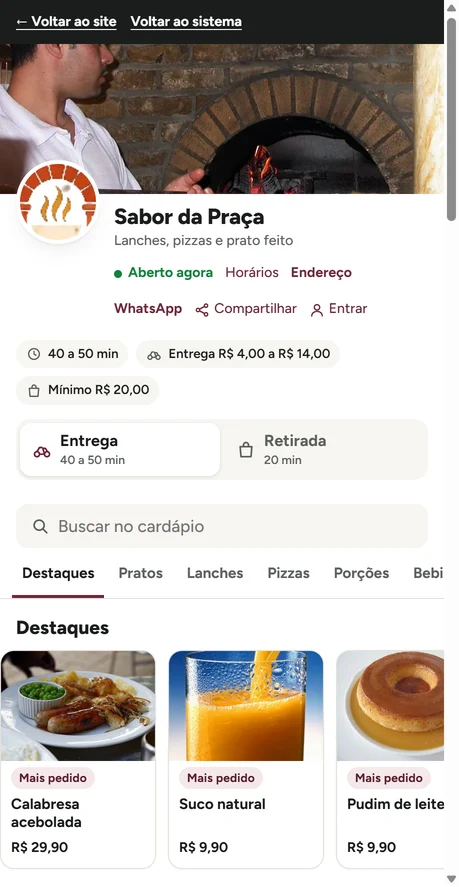
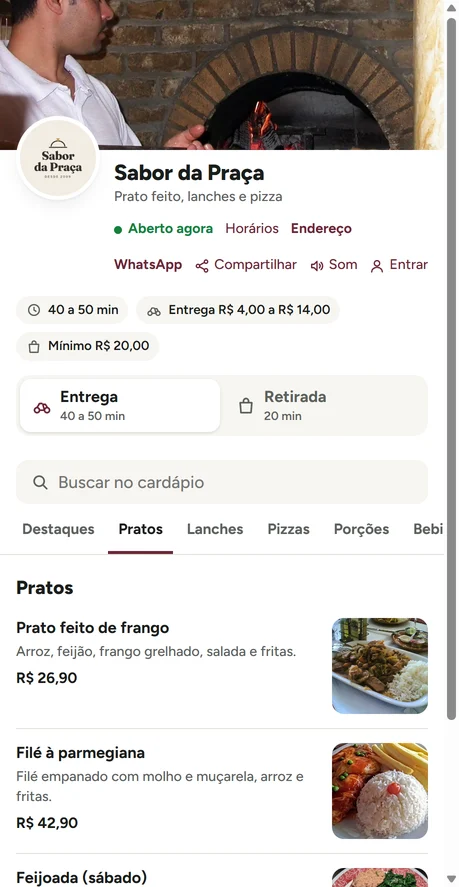
Popina: exemplos de cardápio diferentes

diff --git a/popina.html b/popina.html
@@ -91,7 +91,7 @@
     <div class="np-video np-mockup"><a href="demos/sistemas/popina/app.html"><picture><source type="image/webp" srcset="img/sistemas/popina-mockup-900.webp?v=6 900w, img/sistemas/popina-mockup.webp?v=6 1600w" sizes="(max-width: 860px) 94vw, 52vw"><img src="img/sistemas/popina-mockup.webp?v=6" width="1600" height="826" fetchpriority="high" decoding="async" alt="Popina na demonstração: a tela da cozinha no computador e a lista do garçom no celular, com dados de exemplo"></picture></a></div>
   </section>
   <section class="sv wrap" id="video" aria-labelledby="sv-t"><h2 class="sec-title" id="sv-t">Veja o Popina em 30 segundos</h2><p class="sv-intro">Telas reais da demonstração, com cada toque: a mesa aberta, o pedido lançado, a cozinha, a conta fechada com Pix e 10% e o recibo.</p><figure class="sv-fig"><div class="sv-quadro" style="--sv-bg:#2a120a" data-deitado="video/sistemas/popina-motion.mp4?v=1" data-empe="video/sistemas/popina-motion-vertical.mp4?v=1" data-capa-deitado="video/sistemas/popina-motion.webp?v=1" data-capa-empe="video/sistemas/popina-motion-vertical.webp?v=1"><video muted loop playsinline preload="none" width="1920" height="1080" aria-label="Vídeo sem som com as telas do Popina: a mesa aberta, o pedido lançado, a cozinha, a conta fechada com Pix e 10% e o recibo"></video><button type="button" class="sv-pausa" aria-pressed="false" hidden>Pausar</button></div><figcaption>Vídeo sem som, com dados de exemplo da demonstração.</figcaption></figure></section>
-  <section class="np-dores wrap"><h2 class="sec-title">O que ele resolve</h2><div class="np-tres"><div><span class="np-num">01</span><p>Pedido anotado errado ou que nunca chegou na cozinha</p></div><div><span class="np-num">02</span><p>Mesa esperando a conta e cliente chamando sem ninguém ver</p></div><div><span class="np-num">03</span><p>Fim do dia sem saber quanto entrou no Pix, no dinheiro e no cartão</p></div></div></section><section class="pp-sec wrap pm-marca" id="sua-marca"><h2 class="sec-title">Simples de usar, com a cara do seu restaurante</h2><p class="pp-intro">Um visual só, pensado para quem não tem intimidade com tecnologia: letras grandes, botões grandes e poucas abas. Você põe o seu logo e escolhe uma cor; o resto já vem pronto.</p><div class="pm-tres"><figure><img src="img/sistemas/popina-marca-1.webp?v=3" alt="Cardápio online de exemplo da lanchonete Sabor da Praça, na cor terracota" width="459" height="887" loading="lazy" decoding="async"><figcaption><b>Sabor da Praça</b><span>Terracota</span></figcaption></figure><figure><img src="img/sistemas/popina-marca-2.webp?v=3" alt="Cardápio online de exemplo da Pizzaria Bella Massa, em verde" width="459" height="887" loading="lazy" decoding="async"><figcaption><b>Pizzaria Bella Massa</b><span>Verde</span></figcaption></figure><figure><img src="img/sistemas/popina-marca-3.webp?v=3" alt="Cardápio online de exemplo da lanchonete Lanches do Tio Zé, em azul" width="459" height="887" loading="lazy" decoding="async"><figcaption><b>Lanches do Tio Zé</b><span>Azul</span></figcaption></figure></div><ul class="pm-lista"><li><b>O seu logo e uma cor</b><span>Você põe pelo celular ou pelo computador e o cardápio muda na hora. Se a cor ficar clara demais, o Popina escurece um pouco para dar leitura.</span></li><li><b>Legível no sol</b><span>Letras grandes, contraste alto e botões do tamanho do dedo, no celular do garçom e no computador do caixa.</span></li><li><b>Cinco abas e pronto</b><span>Salão, Pedidos, Cozinha, Caixa e Gestão. Cada pessoa só vê o que o cargo dela precisa.</span></li></ul><p class="pm-nota">Restaurantes de exemplo, com nomes criados para esta demonstração.</p></section><section class="pp-sec wrap" id="demonstracao"><h2 class="sec-title">Veja funcionando em 30 segundos</h2><p class="pp-intro">A demonstração abre sem cadastro, com a lanchonete Sabor da Praça de exemplo: mesas abertas, pedidos na cozinha, balcão e delivery. Os dados ficam só no seu navegador.</p><div class="pp-demo"><div><a class="pp-demo-foto" href="demos/sistemas/popina/app.html#salao"><img src="img/sistemas/popina.webp?v=6" width="1200" height="750" loading="lazy" decoding="async" alt="Tela do salão do Popina: a lista do que fazer agora (levar a conta, pedido pelo QR, prato pronto, mesa chamando) e o mapa das mesas, com dados de exemplo"></a></div><div class="pp-fluxo"><p class="pp-fluxo-t">Do garçom para a cozinha, em dois aparelhos</p><ol class="pp-testar"><li><b>Toque na mesa 4, que está livre.</b><small>Escolha quantas pessoas e toque em Abrir e lançar.</small></li><li><b>Toque no + dos pratos e em Mandar para a cozinha.</b><small>Um X-Burger com bacon e sem cebola, uma pizza meio a meio: as escolhas aparecem antes de pôr na comanda.</small></li><li><b>Abra a aba Cozinha.</b><small>O pedido chega com o tempo correndo. Toque em Começar e em Pronto: o garçom vê “Pronto: Mesa 4” no Salão. Dá para imprimir o pedido na térmica de 80 mm.</small></li></ol></div></div><div class="pp-demo-baixo"><figure class="pp-resultado"><div class="pp-res-foto"><img src="img/resultados/popina.webp?v=6" width="780" height="1320" loading="lazy" decoding="async" alt="Print da demonstração do Popina: a tela da cozinha com o pedido da mesa 4 e a observação em destaque"></div><figcaption><span class="pp-res-rot">Resultado</span><b class="pp-res-t">O pedido na tela da cozinha</b><span class="pp-res-d">Print da demonstração: o pedido chega na tela da cozinha com a observação em vermelho e o tempo em destaque, verde até 10 minutos, amarelo até 20 e vermelho depois.</span><span class="pp-res-planilha"><b>Cozinha e bar:</b> a mesma tela filtra só a cozinha ou só o bar, e cada pedido tem o botão de imprimir.</span></figcaption></figure><div class="pp-demo-acoes"><div class="pp-bts"><a class="btn btn-primary" href="demos/sistemas/popina/app.html#salao">Abrir nessa tela</a></div><p class="pp-selo pp-selo-demo"><svg class="pp-selo-ico" aria-hidden="true"><use href="img/seguranca/diretrizes.svg?v=1#d-navegador"/></svg><span><b>Demonstração</b> · dados de exemplo, salvos só no seu navegador</span></p><h3 class="pp-mais-t">Depois, teste também</h3><ul class="pp-mais"><li><span class="pp-mais-txt"><b>Cardápio do cliente pelo QR:</b> peça como se estivesse na mesa 4, chame o garçom e peça a conta. O pedido também pode ir para o WhatsApp do restaurante.</span><a class="btn btn-outline btn-s" href="demos/sistemas/popina/cardapio.html?mesa=4" aria-label="Abrir na demonstração: cardápio do cliente">Abrir</a></li><li><span class="pp-mais-txt"><b>Fechar a conta:</b> 10%, desconto, dividir por pessoa, Pix com QR e dinheiro com troco.</span><a class="btn btn-outline btn-s" href="demos/sistemas/popina/app.html#caixa" aria-label="Abrir na demonstração: caixa">Abrir</a></li><li><span class="pp-mais-txt"><b>Fechamento do dia:</b> o resumo por forma de pagamento, pronto para mandar no WhatsApp do dono.</span><a class="btn btn-outline btn-s" href="demos/sistemas/popina/app.html#fechamento" aria-label="Abrir na demonstração: fechamento do dia">Abrir</a></li></ul></div></div></section>
+  <section class="np-dores wrap"><h2 class="sec-title">O que ele resolve</h2><div class="np-tres"><div><span class="np-num">01</span><p>Pedido anotado errado ou que nunca chegou na cozinha</p></div><div><span class="np-num">02</span><p>Mesa esperando a conta e cliente chamando sem ninguém ver</p></div><div><span class="np-num">03</span><p>Fim do dia sem saber quanto entrou no Pix, no dinheiro e no cartão</p></div></div></section><section class="pp-sec wrap pm-marca" id="sua-marca"><h2 class="sec-title">Simples de usar, com a cara do seu restaurante</h2><p class="pp-intro">Um visual só, pensado para quem não tem intimidade com tecnologia: letras grandes, botões grandes e poucas abas. Você põe o seu logo e escolhe uma cor; o resto já vem pronto.</p><div class="pm-tres"><figure><img src="img/sistemas/popina-marca-1.webp?v=4" alt="Cardápio online de exemplo da lanchonete Sabor da Praça, em vinho" width="459" height="887" loading="lazy" decoding="async"><figcaption><b>Sabor da Praça</b><span>Vinho</span></figcaption></figure><figure><img src="img/sistemas/popina-marca-2.webp?v=4" alt="Cardápio online de exemplo da Pizzaria Bella Massa, em verde" width="459" height="887" loading="lazy" decoding="async"><figcaption><b>Pizzaria Bella Massa</b><span>Verde</span></figcaption></figure><figure><img src="img/sistemas/popina-marca-3.webp?v=4" alt="Cardápio online de exemplo da lanchonete Lanches do Tio Zé, em azul" width="459" height="887" loading="lazy" decoding="async"><figcaption><b>Lanches do Tio Zé</b><span>Azul</span></figcaption></figure></div><ul class="pm-lista"><li><b>O seu logo e uma cor</b><span>Você põe pelo celular ou pelo computador e o cardápio muda na hora. Se a cor ficar clara demais, o Popina escurece um pouco para dar leitura.</span></li><li><b>Legível no sol</b><span>Letras grandes, contraste alto e botões do tamanho do dedo, no celular do garçom e no computador do caixa.</span></li><li><b>Cinco abas e pronto</b><span>Salão, Pedidos, Cozinha, Caixa e Gestão. Cada pessoa só vê o que o cargo dela precisa.</span></li></ul><p class="pm-nota">Restaurantes de exemplo, com nomes criados para esta demonstração.</p></section><section class="pp-sec wrap" id="demonstracao"><h2 class="sec-title">Veja funcionando em 30 segundos</h2><p class="pp-intro">A demonstração abre sem cadastro, com a lanchonete Sabor da Praça de exemplo: mesas abertas, pedidos na cozinha, balcão e delivery. Os dados ficam só no seu navegador.</p><div class="pp-demo"><div><a class="pp-demo-foto" href="demos/sistemas/popina/app.html#salao"><img src="img/sistemas/popina.webp?v=6" width="1200" height="750" loading="lazy" decoding="async" alt="Tela do salão do Popina: a lista do que fazer agora (levar a conta, pedido pelo QR, prato pronto, mesa chamando) e o mapa das mesas, com dados de exemplo"></a></div><div class="pp-fluxo"><p class="pp-fluxo-t">Do garçom para a cozinha, em dois aparelhos</p><ol class="pp-testar"><li><b>Toque na mesa 4, que está livre.</b><small>Escolha quantas pessoas e toque em Abrir e lançar.</small></li><li><b>Toque no + dos pratos e em Mandar para a cozinha.</b><small>Um X-Burger com bacon e sem cebola, uma pizza meio a meio: as escolhas aparecem antes de pôr na comanda.</small></li><li><b>Abra a aba Cozinha.</b><small>O pedido chega com o tempo correndo. Toque em Começar e em Pronto: o garçom vê “Pronto: Mesa 4” no Salão. Dá para imprimir o pedido na térmica de 80 mm.</small></li></ol></div></div><div class="pp-demo-baixo"><figure class="pp-resultado"><div class="pp-res-foto"><img src="img/resultados/popina.webp?v=6" width="780" height="1320" loading="lazy" decoding="async" alt="Print da demonstração do Popina: a tela da cozinha com o pedido da mesa 4 e a observação em destaque"></div><figcaption><span class="pp-res-rot">Resultado</span><b class="pp-res-t">O pedido na tela da cozinha</b><span class="pp-res-d">Print da demonstração: o pedido chega na tela da cozinha com a observação em vermelho e o tempo em destaque, verde até 10 minutos, amarelo até 20 e vermelho depois.</span><span class="pp-res-planilha"><b>Cozinha e bar:</b> a mesma tela filtra só a cozinha ou só o bar, e cada pedido tem o botão de imprimir.</span></figcaption></figure><div class="pp-demo-acoes"><div class="pp-bts"><a class="btn btn-primary" href="demos/sistemas/popina/app.html#salao">Abrir nessa tela</a></div><p class="pp-selo pp-selo-demo"><svg class="pp-selo-ico" aria-hidden="true"><use href="img/seguranca/diretrizes.svg?v=1#d-navegador"/></svg><span><b>Demonstração</b> · dados de exemplo, salvos só no seu navegador</span></p><h3 class="pp-mais-t">Depois, teste também</h3><ul class="pp-mais"><li><span class="pp-mais-txt"><b>Cardápio do cliente pelo QR:</b> peça como se estivesse na mesa 4, chame o garçom e peça a conta. O pedido também pode ir para o WhatsApp do restaurante.</span><a class="btn btn-outline btn-s" href="demos/sistemas/popina/cardapio.html?mesa=4" aria-label="Abrir na demonstração: cardápio do cliente">Abrir</a></li><li><span class="pp-mais-txt"><b>Fechar a conta:</b> 10%, desconto, dividir por pessoa, Pix com QR e dinheiro com troco.</span><a class="btn btn-outline btn-s" href="demos/sistemas/popina/app.html#caixa" aria-label="Abrir na demonstração: caixa">Abrir</a></li><li><span class="pp-mais-txt"><b>Fechamento do dia:</b> o resumo por forma de pagamento, pronto para mandar no WhatsApp do dono.</span><a class="btn btn-outline btn-s" href="demos/sistemas/popina/app.html#fechamento" aria-label="Abrir na demonstração: fechamento do dia">Abrir</a></li></ul></div></div></section>
   <section class="vs wrap" id="versoes"><h2 class="sec-title">O que vem no Popina</h2><p class="vs-intro">Tudo num plano só, para o restaurante inteiro, com a equipe sem limite. Funciona no celular, no tablet e no computador.</p><div class="vs-grade" style="grid-template-columns:repeat(auto-fit,minmax(260px,1fr))">
     <article class="vs-card"><h3 class="vs-nome" style="font-size:22px">Salão e garçom</h3><ul class="vs-lista"><li><svg class="ico" aria-hidden="true"><use href="img/icones.svg#i-check"/></svg><span>Mapa das mesas com a cor de cada situação: livre, ocupada, pediu a conta, prato pronto</span></li><li><svg class="ico" aria-hidden="true"><use href="img/icones.svg#i-check"/></svg><span>Uma lista só do que fazer agora: prato pronto, mesa chamando, conta pedida, pedido do QR</span></li><li><svg class="ico" aria-hidden="true"><use href="img/icones.svg#i-check"/></svg><span>Lançar no celular com busca, categorias e o + grande; observação em um toque</span></li><li><svg class="ico" aria-hidden="true"><use href="img/icones.svg#i-check"/></svg><span>Trocar de mesa, juntar mesas e cancelar item com a senha do gerente</span></li></ul></article>
     <article class="vs-card"><h3 class="vs-nome" style="font-size:22px">Balcão, retirada e entrega</h3><ul class="vs-lista"><li><svg class="ico" aria-hidden="true"><use href="img/icones.svg#i-check"/></svg><span>Os três numa lista só, com o nome ou a senha do cliente</span></li><li><svg class="ico" aria-hidden="true"><use href="img/icones.svg#i-check"/></svg><span>Taxa por bairro, troco para quanto e forma de pagamento</span></li><li><svg class="ico" aria-hidden="true"><use href="img/icones.svg#i-check"/></svg><span>O telefone de quem já pediu preenche o nome e o endereço</span></li><li><svg class="ico" aria-hidden="true"><use href="img/icones.svg#i-check"/></svg><span>Entregadores: quem levou cada pedido e o acerto do dia</span></li></ul></article>
